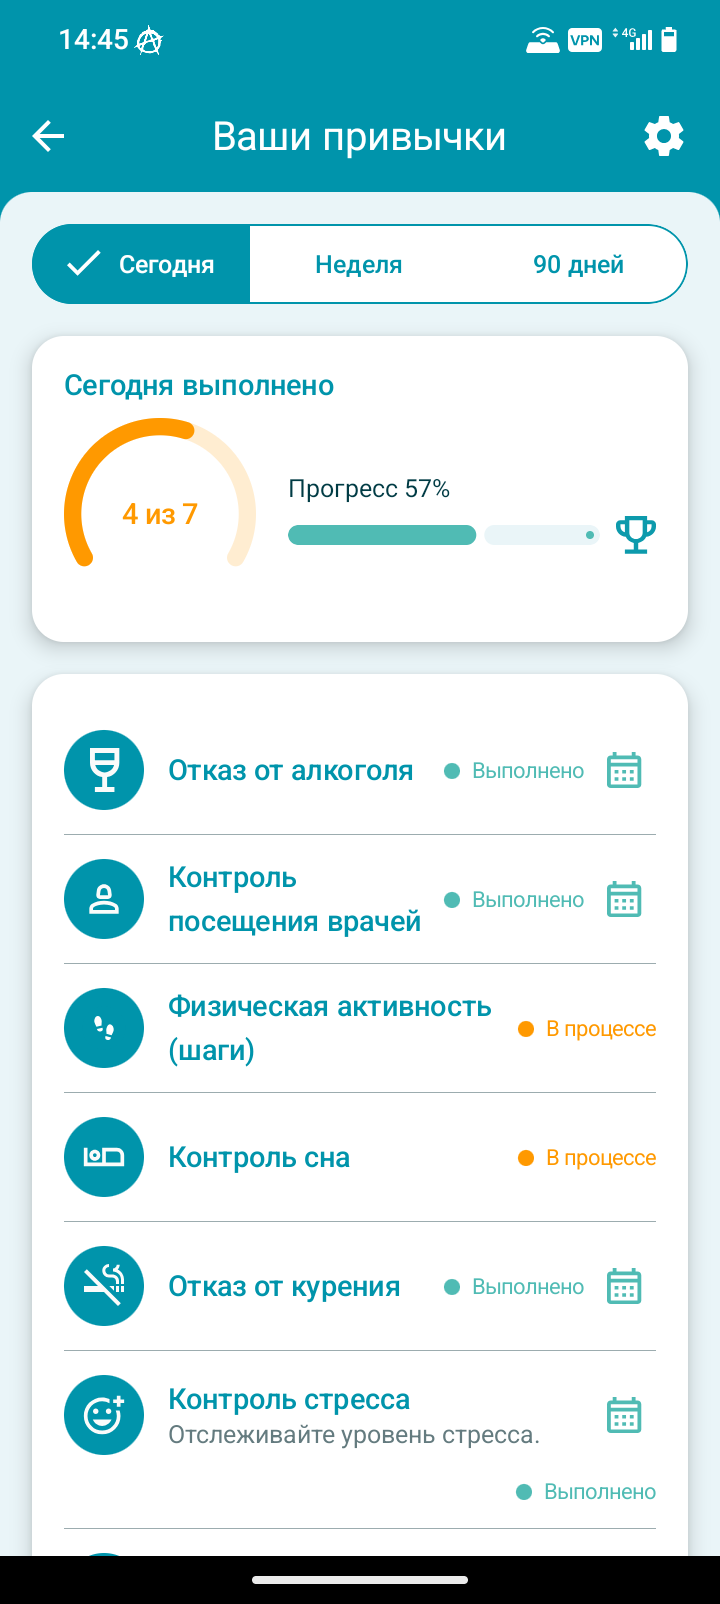
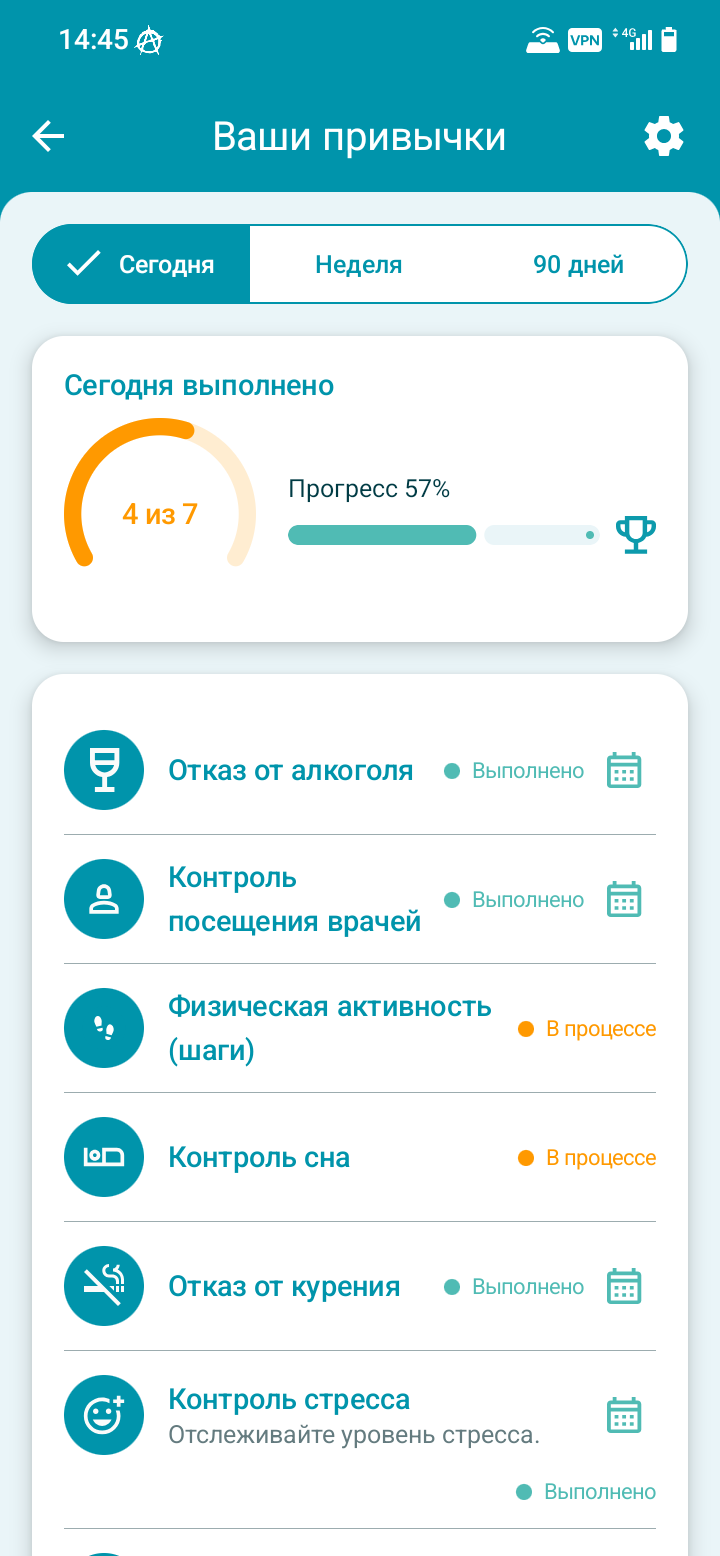
fix: crop Android nav bar from screenshots

diff --git a/index.html b/index.html
@@ -165,7 +165,7 @@
               <img
                 src="./public/screenshots/food1.png"
                 width="720"
-                height="1604"
+                height="1556"
                 alt="Экран добавления блюда в дневник питания"
                 loading="lazy"
                 decoding="async"
@@ -173,7 +173,7 @@
               <img
                 src="./public/screenshots/food2.png"
                 width="720"
-                height="1604"
+                height="1556"
                 alt="Экран расчёта КБЖУ для блюда"
                 loading="lazy"
                 decoding="async"
@@ -195,7 +195,7 @@
               <img
                 src="./public/screenshots/habits1.png"
                 width="720"
-                height="1604"
+                height="1556"
                 alt="Недельный прогресс по выбранным привычкам"
                 loading="lazy"
                 decoding="async"
@@ -219,7 +219,7 @@
               <img
                 src="./public/screenshots/doc1.png"
                 width="720"
-                height="1604"
+                height="1556"
                 alt="Экран выбора способа загрузки анализов"
                 loading="lazy"
                 decoding="async"
@@ -227,7 +227,7 @@
               <img
                 src="./public/screenshots/doc2.png"
                 width="720"
-                height="1604"
+                height="1556"
                 alt="Экран распознанных результатов анализа"
                 loading="lazy"
                 decoding="async"
@@ -251,7 +251,7 @@
               <img
                 src="./public/screenshots/integration1.png"
                 width="720"
-                height="1604"
+                height="1556"
                 alt="Настройки подключённых устройств и Health Connect"
                 loading="lazy"
                 decoding="async"

diff --git a/tests/landing.test.js b/tests/landing.test.js
@@ -20,6 +20,14 @@ const surface = readFileSync(
   "utf8",
 );
 
+const pngSize = (path) => {
+  const buffer = readFileSync(path);
+  return {
+    width: buffer.readUInt32BE(16),
+    height: buffer.readUInt32BE(20),
+  };
+};
+
 const simplicityChapters = [
   {
     index: "01 / ПИТАНИЕ",
@@ -348,6 +356,16 @@ test("simplicity replaces the task directory with four editorial chapters", () =
   }
 
   assert.equal((simplicity.match(/class="simplicity__visual simplicity__visual--pair"/g) ?? []).length, 2);
+
+  for (const { screenshots } of simplicityChapters) {
+    for (const screenshot of screenshots) {
+      assert.deepEqual(
+        pngSize(new URL(`../public/screenshots/${screenshot}`, import.meta.url)),
+        { width: 720, height: 1556 },
+        screenshot,
+      );
+    }
+  }
 
   assert.ok(
     landing.indexOf('id="first-route"') < landing.indexOf('id="simplicity"'),
